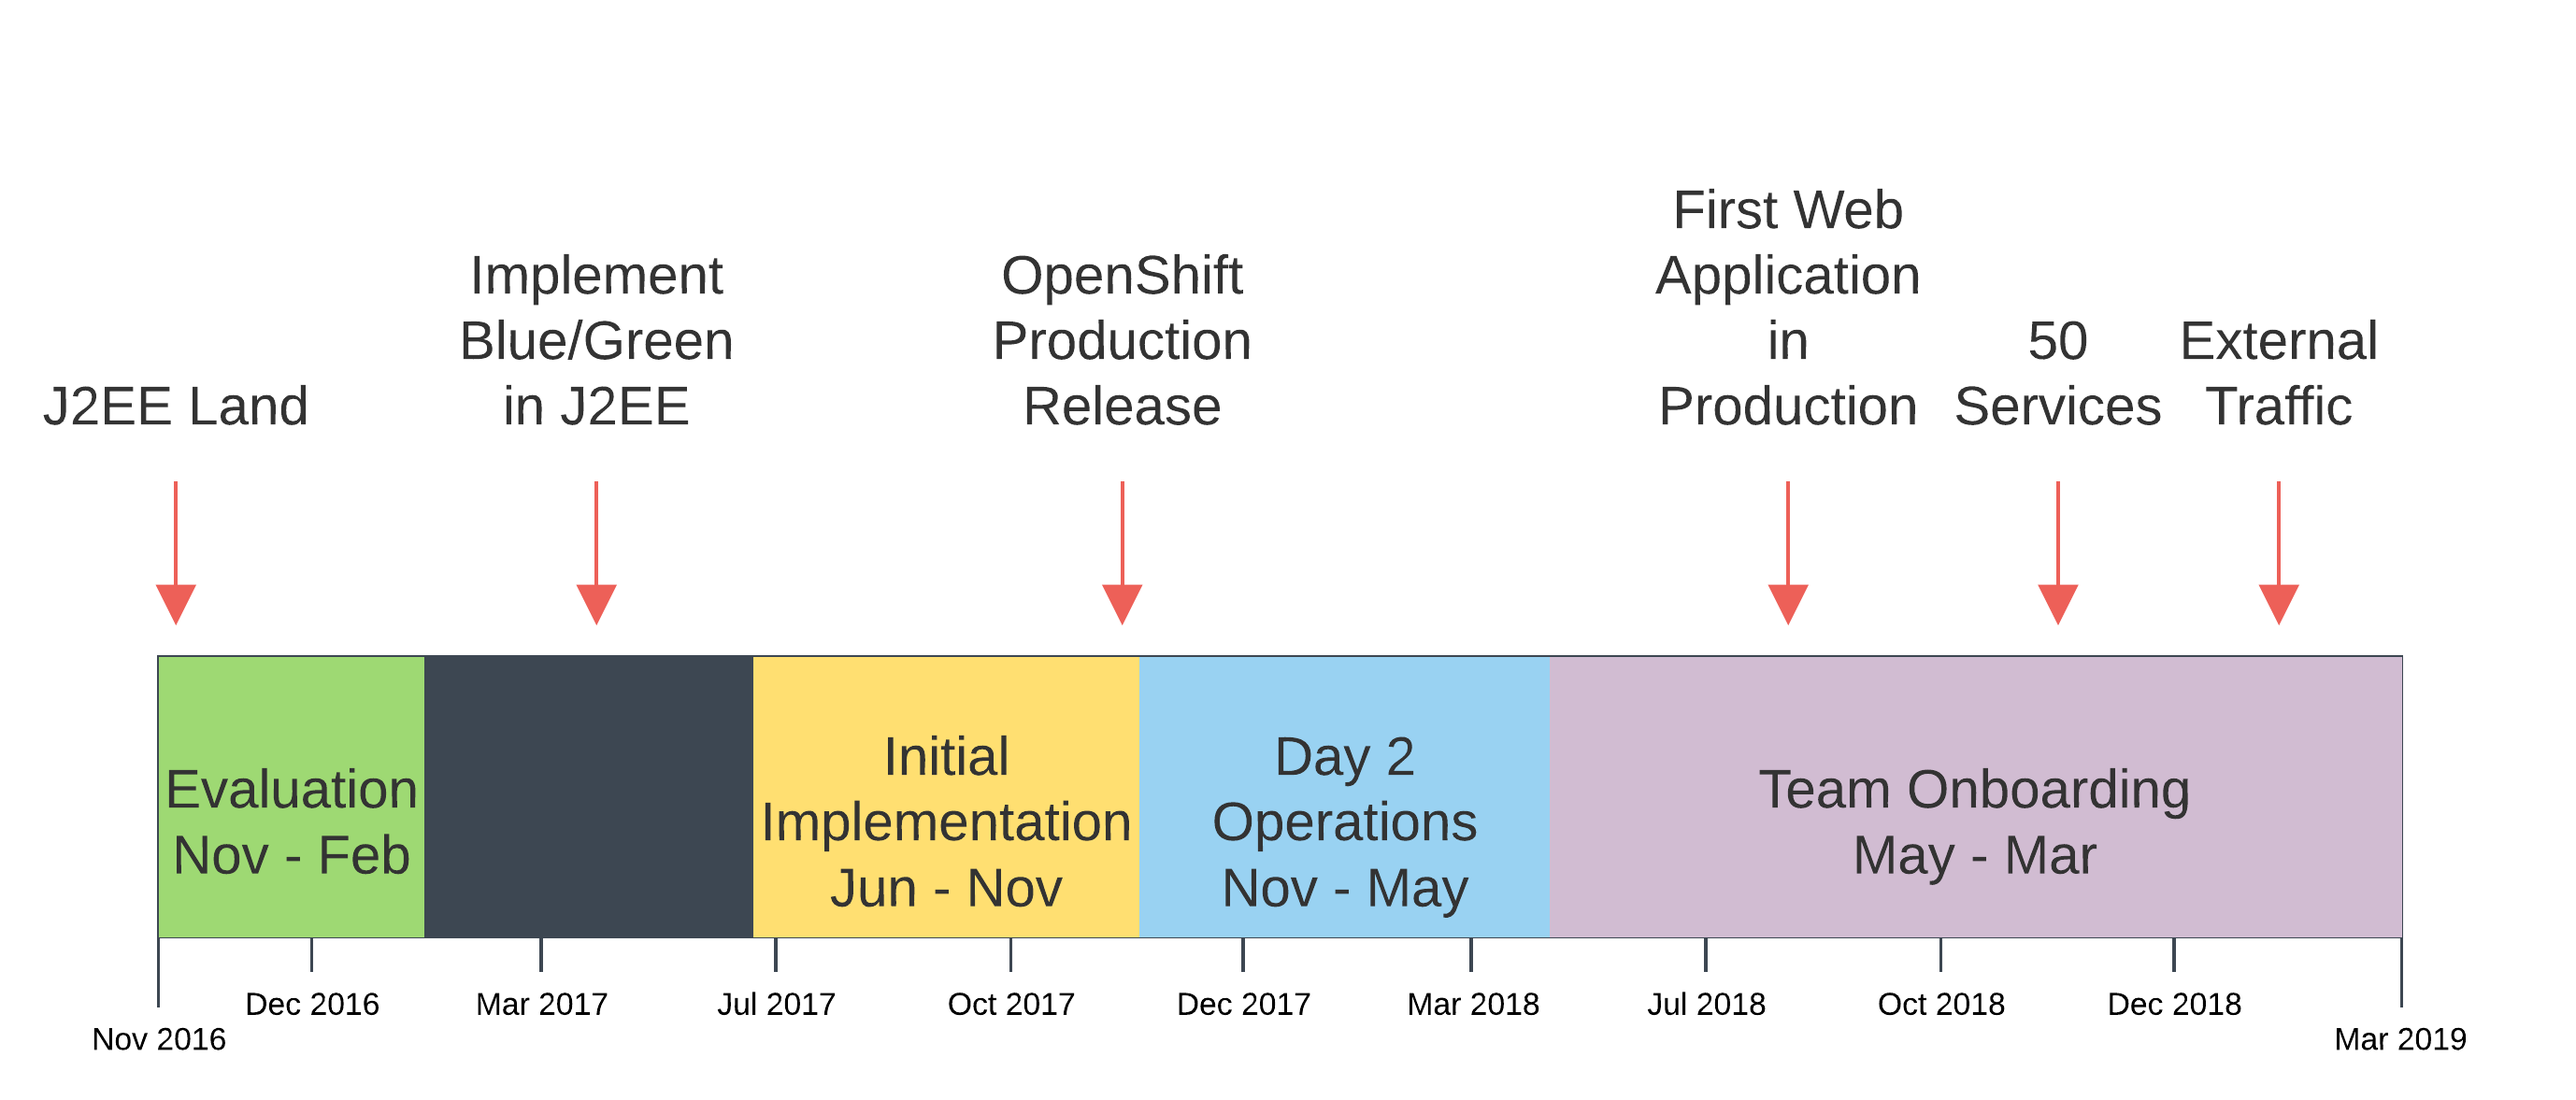
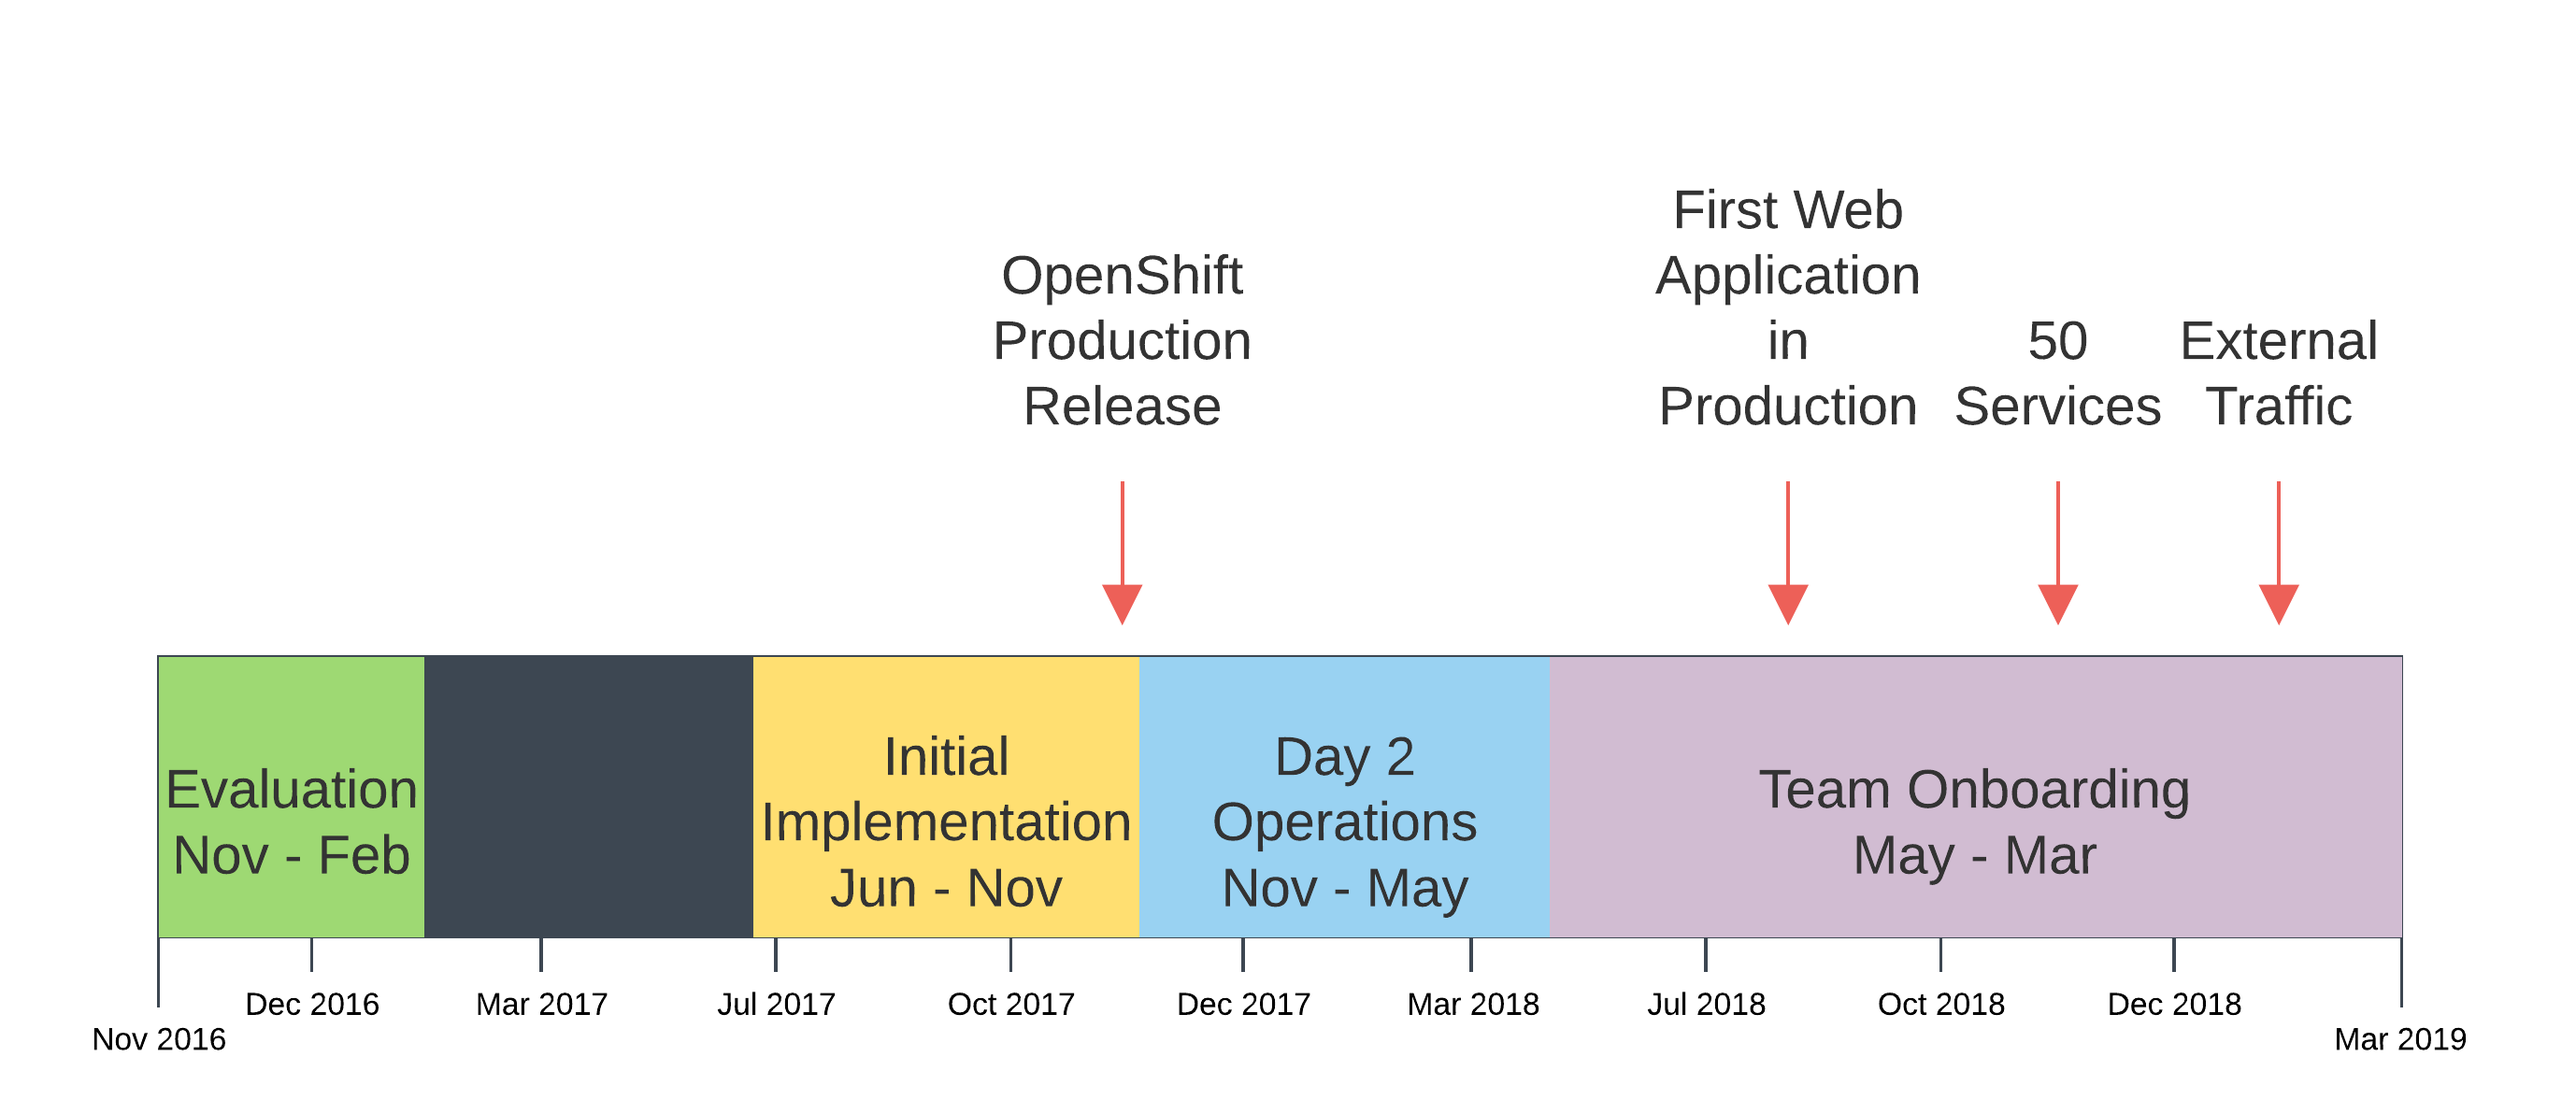
Some notes

diff --git a/_layouts/default.html b/_layouts/default.html
@@ -50,11 +50,11 @@
       img[alt=BlueOcean] { width: 500px; height: 150px; margin-top: 20px}
       img[alt=OurTimeline] { width: 800px; height: 400px; margin-top: -30px}
       img[alt=Info] { width: 600; height: 300px; margin-top: -10px}
-      img[alt=Deployments] { width: 600px; height: 300px; margin-top: 20px}
-      img[alt=DeploymentCount] { width: 600px; height: 300px; margin-top: 20px}
+      img[alt=Deployments] { width: 730px; height: 365px; margin-top: 20px}
+      img[alt=DeploymentCount] { width: 800px; height: 420px; margin-top: 20px}
       img[alt=NamespaceManagement] { width: 300px; height: 300px; margin-top: 30px}
       img[alt=ToolManagement] { width: 250px; height: 300px}
-      img[alt=ApplicationView] { width: 800px; height: 500px}
+      img[alt=ApplicationView] { width: 800px; height: 550px}
       img[alt=JenkinsLogo] { width: 200px; height: 100px; margin-bottom: 10px; margin-top: -40px; margin-left: 30px}
       img[alt=VaultLogo] { width: 150px; height: 150px; margin-left: 40px; margin-top: -40px}
       img[alt=BitbucketLogo] { width: 175px; height: 120px; margin-left: 40px; margin-top: -40px}

diff --git a/index.html b/index.html
@@ -18,6 +18,11 @@ class: center
 
 ## James McShane, Healthpartners
 
+???
+
+Start slow, strong. There's lots here, but you can't garble early.
+
+
 ---
 layout: true
 name: top-bar
@@ -35,9 +40,9 @@ _Our mission is to improve health and well-being in partnership with our members
 
 ???
 
-A little data sheet from the internet.
+A little data sheet.
 
-Non-profit, regional health insurance health care provider in Minnesota
+Large non-profit, regional health insurance health care provider in Minnesota
 
 Large enterprise - 26k employees!
 
@@ -47,7 +52,6 @@ Started in 1957
 
 # Who am I?
 
-* James McShane
 * Joined HealthPartners in 2016
 * Platform and Architecture group
 * Our platform runs HealthPartners.com and our health plan administration
@@ -72,7 +76,7 @@ of the new ways of operating that we have developed.
 
 ---
 
-# Our J2EE World
+# Our Old World
 
 * Long lead time to production
 * Deploys generally at night
